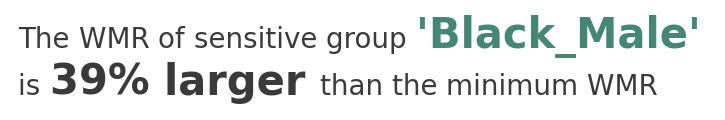
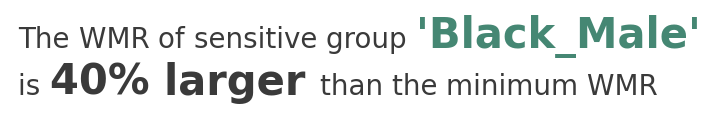
Update plots after changing threshold

Changed region(s): [[0.0607, 0.5, 0.1517, 0.8]]

diff --git a/src/visualization_description/evaluater_chexpert.py b/src/visualization_description/evaluater_chexpert.py
@@ -1,0 +1,205 @@
+#%% Imports
+import pandas as pd
+import matplotlib.pyplot as plt
+import numpy as np
+import sklearn
+
+from src.evaluation_tool.layered_tool import FairKit
+from src.visualization_description.evaluater import make_all_plots
+
+from sklearn.metrics import roc_curve
+
+#%% Initialize parameters
+figure_path = 'figures/evaluation_plots/'
+fig_path_chexpert = '../Thesis-report/00_figures/cheXpert/'
+
+l3_report_plots_chexpert = [
+    ['cheXpert_race', 'roc_curves'],
+    ['cheXpert_race', 'calibration']] # Add more here later
+
+update_figures  = True
+update_report_figures = True # Write new figures to report repository?
+run_all_plots = True
+run_l3_plots = True
+make_table = True
+
+#############################################
+#%% Functions
+##############################################
+
+def get_fpr_based_threshold():
+    """Calculate threshold achieving fpr=0.2 on training data"""
+    pred_path = 'data/CheXpert/predictions/adam_dp=2e-1/train_best_predictions.csv'
+    demo_path = 'data/CheXpert/processed/cheXpert_processed_demo_data.csv'
+    preds = pd.read_csv(pred_path)
+    demo_data = pd.read_csv(demo_path)
+
+    # Merge chexpert and demographic data
+    df = preds.join(
+        demo_data.set_index('patient_id'), 
+        how = 'left', 
+        on = 'patient_id')
+    
+    
+    df = (df.dropna(subset = ['sex', 'race'])
+        .drop(columns = ['ethnicity']))
+
+    fpr_target = 0.2
+    fpr, tpr, threshold = roc_curve(
+            y_true = df.y, 
+            y_score = df.scores)
+    roc = pd.DataFrame({'fpr': fpr, 'tpr': tpr, 'threshold': threshold})
+    roc = (roc[roc.fpr < fpr_target]
+        .sort_values('fpr', ascending = False)
+        .reset_index(drop = True))
+    tau = roc.threshold[0]
+    return tau
+    
+def get_chexpert_prediction_data(threshold = 0.5):
+    """Merges predictions with demodata and makes predictions based on threshold"""
+    # Load data
+    pred_path = 'data/CheXpert/predictions/adam_dp=2e-1/test_best_predictions.csv'
+    demo_path = 'data/CheXpert/processed/cheXpert_processed_demo_data.csv'
+    preds = pd.read_csv(pred_path)
+    demo_data = pd.read_csv(demo_path)
+
+    # Merge chexpert and demographic data
+    df = preds.join(
+        demo_data.set_index('patient_id'), 
+        how = 'left', 
+        on = 'patient_id')
+    
+    # 160 without any demographic information and 181 without ethnicity dropped
+    assert df.race.isnull().sum() == 160 
+    assert df.ethnicity.isnull().sum() == 181
+    
+    df = (df.dropna(subset = ['sex', 'race'])
+        .drop(columns = ['ethnicity']))
+
+    df = df.assign(y_hat = lambda x: x.scores >= threshold)
+    
+    return df
+
+def get_chexpert_kits(pred_data):
+    """Creates dictionary of FairKits for CheXpert dataset
+    
+    Params:
+        pred_data (pd.DataFrame): Dataframe as returned by get_chexpert_prediction_data()
+    """
+    
+    # Initialize kits
+    chexpert_kits = {}
+    for sens_grp in ['sex', 'race', 'race_sex']:
+        if sens_grp == 'race_sex':
+            kwargs = {"specific_col_idx": [0, 4, 5, 6, 10, 11, 7, 9]}
+        else:
+            kwargs = {}
+
+        key_name = f'cheXpert_{sens_grp}'
+        mod_name = f'CheXpert: {sens_grp}'
+        chexpert_kits[key_name] = FairKit(
+            data = pred_data,
+            y_name = 'y',
+            y_hat_name='y_hat',
+            a_name = sens_grp,
+            r_name = 'scores',
+            w_fp = 0.1, 
+            model_name = mod_name,
+            **kwargs
+        )
+    return chexpert_kits
+
+def table_fairness_analysis(fairKit_instance, to_latex = False):
+    a_name = fairKit_instance.a_name
+    
+    # helper function
+    def stats_group(df):
+        scores = df.scores
+        y_hat = df.y_hat
+        y = df.y
+        auc_roc = sklearn.metrics.roc_auc_score(y, scores)
+        acc = sklearn.metrics.accuracy_score(y, y_hat)*100
+        return [auc_roc, acc]
+
+    auc_acc_table = (fairKit_instance.data
+        .assign(roc_auc_tuple = lambda x: list(zip(x.y, x.scores)),
+                acc_tuple = lambda x: list(zip(x.y, x.y_hat)))
+        .groupby(a_name)
+            .apply(stats_group)
+        .apply(pd.Series)
+        .reset_index()
+        .rename(columns = {0:"auc_roc", 1:"acc"})
+            )
+
+    return_table = (fairKit_instance.level_1(plot = False)
+        .rename(columns={"grp":a_name})
+        .join(auc_acc_table.set_index(a_name), how = "left", on = a_name)
+        .rename(columns={f"{a_name}":"grp"})
+        .assign(sens_grp = a_name))
+
+    return_table = return_table[["sens_grp","grp","n","WMR","WMQ","auc_roc","acc"]]
+
+    if to_latex:
+        print(return_table.to_latex(index = False, float_format="%.3f"))
+    else:
+        return return_table
+
+        
+#%%
+if __name__ == '__main__':
+
+    # initialize fairkits
+    threshold = get_fpr_based_threshold()
+    chexpert_df = get_chexpert_prediction_data(
+        threshold = threshold)
+    chexpert_kits = get_chexpert_kits(chexpert_df)
+
+    if make_table:
+        table_list = []
+    for mod_name, kit in chexpert_kits.items():
+
+        # Get all plots in png
+        if run_all_plots:
+            path = figure_path + mod_name + '_'
+            make_all_plots(kit, 
+                save_plots = update_figures,
+                plot_path = path, 
+                **{'suptitle': False, 'threshold': threshold})
+
+        # Get plots for report
+        if update_report_figures:
+            path = fig_path_chexpert + mod_name + '_'
+            make_all_plots(kit, 
+                save_plots = update_report_figures,
+                plot_path = path,
+                ext = ".pdf",
+                **{"run_level_2": True, 'suptitle': False})
+        
+        if make_table:
+            table_list.append(table_fairness_analysis(kit))
+
+    if make_table:
+        total_table = pd.concat(table_list)
+        total_table.rename(
+            {"sens_grp": "Sensitive Group",
+                "grp": "Subgroup",
+                "auc_roc": "AUC ROC",
+                "acc": "Accuracy %"         
+            }
+        ) 
+        print(total_table.to_latex(index= False, float_format="%.3f"))
+       
+    if run_l3_plots:
+        kwargs = {"threshold": threshold, "n_bins": 10}
+        for dataset, method in l3_report_plots_chexpert:
+            chexpert_kits[dataset].level_3(
+                method = method, 
+                **kwargs)
+            if update_report_figures:
+                path = fig_path_chexpert + dataset + '_' + method + '.pdf'
+                plt.savefig(path, bbox_inches='tight', facecolor = 'w')
+
+
+# %%
+
+

diff --git a/src/visualization_description/evaluater.py b/src/visualization_description/evaluater.py
@@ -2,12 +2,9 @@
 import pandas as pd
 import matplotlib.pyplot as plt
 import numpy as np
-import sklearn
 
 from src.evaluation_tool.layered_tool import FairKit
-from src.evaluation_tool.utils import static_split, label_case
-
-from sklearn.metrics import roc_curve
+from src.evaluation_tool.utils import static_split
 
 #%% Initialize parameters
 figure_path = 'figures/evaluation_plots/'
@@ -217,8 +214,7 @@ def make_all_plots(kit, save_plots = False, plot_path = None, ext = '.png', **kw
             plt.close()
 
     if kwargs.get("run_level_2") or run_all:
-        suptitle = kwargs.get('suptitle', True)
-        kit.level_2(output_table = False, **{"suptitle": suptitle})
+        kit.level_2(output_table = False, **kwargs)
         if save_plots: 
             plt.savefig(plot_path+'l2'+ext, bbox_inches='tight', facecolor = 'w')
             plt.close()
@@ -228,112 +224,11 @@ def make_all_plots(kit, save_plots = False, plot_path = None, ext = '.png', **kw
             'w_fp_influence', 'roc_curves', 'calibration', 
             'confusion_matrix', 'independence_check']
         for method in method_options:
-            kit.level_3(method = method, output_table = False)
+            kit.level_3(method = method, output_table = False, **kwargs)
             if save_plots: 
                 path = plot_path+'l3_'+method+ext
                 plt.savefig(path, bbox_inches='tight', facecolor = 'w')
                 plt.close()
-
-def get_chexpert_prediction_data(threshold = 'fpr_based'):
-    """Merges predictions with demodata and finds threshold"""
-    # Load data
-    pred_path = 'data/CheXpert/predictions/adam_dp=2e-1/test_best_predictions.csv'
-    demo_path = 'data/CheXpert/processed/cheXpert_processed_demo_data.csv'
-    preds = pd.read_csv(pred_path)
-    demo_data = pd.read_csv(demo_path)
-
-    # Merge chexpert and demographic data
-    df = preds.join(
-        demo_data.set_index('patient_id'), 
-        how = 'left', 
-        on = 'patient_id')
-    
-    # 160 without any demographic information and 181 without ethnicity dropped
-    assert df.race.isnull().sum() == 160 
-    assert df.ethnicity.isnull().sum() == 181
-    
-    df = (df.dropna(subset = ['sex', 'race'])
-        .drop(columns = ['ethnicity']))
-
-    if threshold == 'standard':
-        tau = 0.5
-    elif threshold == 'fpr_based':
-        fpr_target = 0.2
-        fpr, tpr, threshold = roc_curve(
-                y_true = df.y, 
-                y_score = df.scores)
-        roc = pd.DataFrame({'fpr': fpr, 'tpr': tpr, 'threshold': threshold})
-        roc = (roc[roc.fpr < fpr_target]
-            .sort_values('fpr', ascending = False)
-            .reset_index(drop = True))
-        tau = roc.threshold[0]
-    else:
-        raise ValueError('Whoops. Threshold option not found')
-
-    df = df.assign(y_hat = lambda x: x.scores >= tau)
-    
-    return df
-
-
-def get_chexpert_kits(pred_data):
-    """Creates dictionary of FairKits for CheXpert dataset"""
-    
-    # Initialize kits
-    chexpert_kits = {}
-    for sens_grp in ['sex', 'race', 'race_sex']:
-        if sens_grp == 'race_sex':
-            kwargs = {"specific_col_idx": [0, 4, 5, 6, 10, 11, 7, 9]}
-        else:
-            kwargs = {}
-
-        key_name = f'cheXpert_{sens_grp}'
-        mod_name = f'CheXpert: {sens_grp}'
-        chexpert_kits[key_name] = FairKit(
-            data = pred_data,
-            y_name = 'y',
-            y_hat_name='y_hat',
-            a_name = sens_grp,
-            r_name = 'scores',
-            w_fp = 0.1, 
-            model_name = mod_name,
-            **kwargs
-        )
-    return chexpert_kits
-
-def table_fairness_analysis(fairKit_instance, to_latex = False):
-    a_name = fairKit_instance.a_name
-    
-    # helper function
-    def stats_group(df):
-        scores = df.scores
-        y_hat = df.y_hat
-        y = df.y
-        auc_roc = sklearn.metrics.roc_auc_score(y, scores)
-        acc = sklearn.metrics.accuracy_score(y, y_hat)*100
-        return [auc_roc, acc]
-
-    auc_acc_table = (fairKit_instance.data
-        .assign(roc_auc_tuple = lambda x: list(zip(x.y, x.scores)),
-                acc_tuple = lambda x: list(zip(x.y, x.y_hat)))
-        .groupby(a_name)
-            .apply(stats_group)
-        .apply(pd.Series)
-        .reset_index()
-        .rename(columns = {0:"auc_roc", 1:"acc"})
-            )
-
-    return_table = (fairKit_instance.level_1(plot = False)
-        .rename(columns={"grp":a_name})
-        .join(auc_acc_table.set_index(a_name), how = "left", on = a_name)
-        .rename(columns={f"{a_name}":"grp"})
-        .assign(sens_grp = a_name))
-
-    return_table = return_table[["sens_grp","grp","n","WMR","WMQ","auc_roc","acc"]]
-
-    if to_latex:
-        print(return_table.to_latex(index = False, float_format="%.3f"))
-    else:
-        return return_table
 
         
 #%%
@@ -386,49 +281,4 @@ if __name__ == '__main__':
             plot_path = path,
             ext = ".pdf",
             **{"run_level_3":True})
-
-
-    if run_chexpert:
-        chexpert_df = get_chexpert_prediction_data(threshold = 'fpr_based')
-        chexpert_kits = get_chexpert_kits(chexpert_df)
-
-        if make_cheXpert_table:
-            table_list = []
-        for mod_name, kit in chexpert_kits.items():
-            if run_all_chexpert_plots:
-                path = figure_path + mod_name + '_'
-                make_all_plots(kit, 
-                    save_plots = update_figures,
-                    plot_path = path, 
-                    **{'suptitle': False})
-
-            if update_report_figures:
-                path = fig_path_chexpert + mod_name + '_'
-                make_all_plots(kit, 
-                    save_plots = update_report_figures,
-                    plot_path = path,
-                    ext = ".pdf",
-                    **{"run_level_2": True, 'suptitle': False})
-            
-            if make_cheXpert_table:
-                table_list.append(table_fairness_analysis(kit))
-
-        if make_cheXpert_table:
-            total_table = pd.concat(table_list)
-            total_table.rename(
-                {"sens_grp": "Sensitive Group",
-                 "grp": "Subgroup",
-                 "auc_roc": "AUC ROC",
-                 "acc": "Accuracy %"         
-                }
-            ) 
-            print(total_table.to_latex(index= False, float_format="%.3f"))
-            
-
-
-    # %%
-
-
-# %%
-
 
